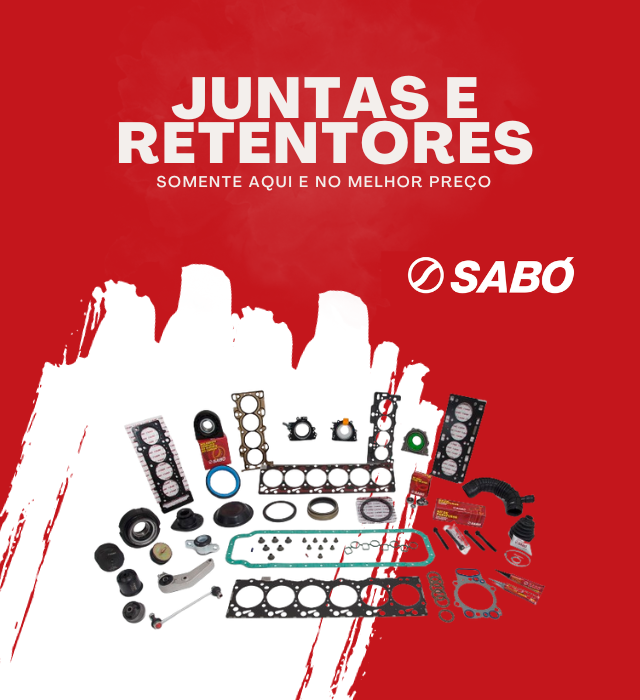
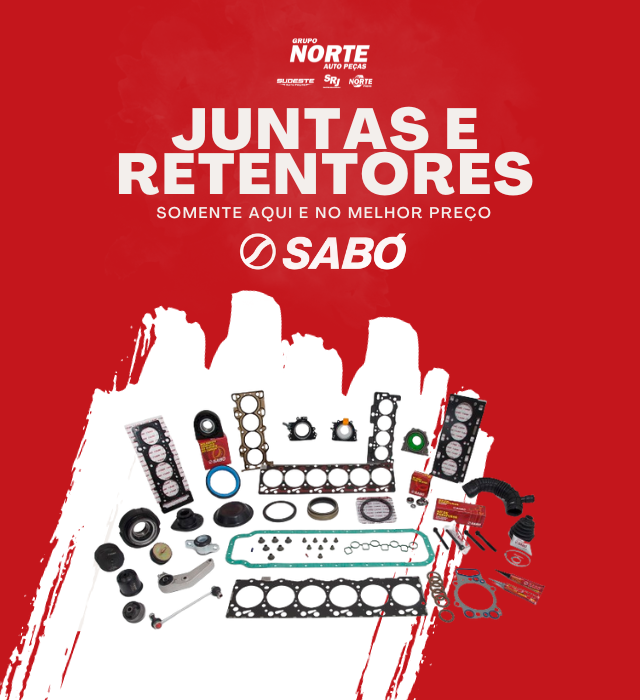
arrumando design

diff --git a/index.html b/index.html
@@ -40,6 +40,8 @@
 </head>
 
 <body>
+
+  
   <section class="header" id="header">
     <div class="container">
       <div class="headerFirst">
@@ -72,7 +74,6 @@
       <div id="containerDeLojas"></div>
     </div>
   </div>
-
   <!-- HeaderMain -->
   <section class="headerMain">
     <div class="container">
@@ -119,13 +120,16 @@
       <swiper-slide class="imgMain"><img src="style/public/img/Slides/slideTest/slide2.png" alt=""></swiper-slide>
       <swiper-slide class="imgMain"><img src="style/public/img/Slides/slideTest/slide3.png" alt=""></swiper-slide>
       <swiper-slide class="imgMain"><img src="style/public/img/Slides/slideTest/slide4.png" alt=""></swiper-slide>
+      <swiper-slide class="imgMain"><img src="style/public/img/Slides/slideTest/slide5.png" alt=""></swiper-slide>
     </swiper-container>
+    
     <!-- slide mobile -->
     <swiper-container class="mySwiper alterarTamanhoMobile" navigation="true" pagination="true" keyboard="true"
       mousewheel="false" css-mode="false" rewind="true" centered-slides="false" autoplay-delay="5000" loop="true">
       <swiper-slide class="imgMain"><img src="style/public/img/Slides/slideMobile/slide1.png" alt=""></swiper-slide>
       <swiper-slide class="imgMain"><img src="style/public/img/Slides/slideMobile/slide2.png" alt=""></swiper-slide>
       <swiper-slide class="imgMain"><img src="style/public/img/Slides/slideMobile/slide3.png" alt=""></swiper-slide>
+      <swiper-slide class="imgMain"><img src="style/public/img/Slides/slideMobile/slide4.png" alt=""></swiper-slide>
     </swiper-container>
   </section>
 

diff --git a/src/localizacao.js b/src/localizacao.js
@@ -55,6 +55,7 @@ function obterCoordenadas() {
       },
       function (error) {
         console.error(`Erro ao obter coordenadas: ${error.message}`);
+        alert("Você negou o acesso a sua localização, alguns recursos do site podem ser afetados.")
       }
     );
   } else {
